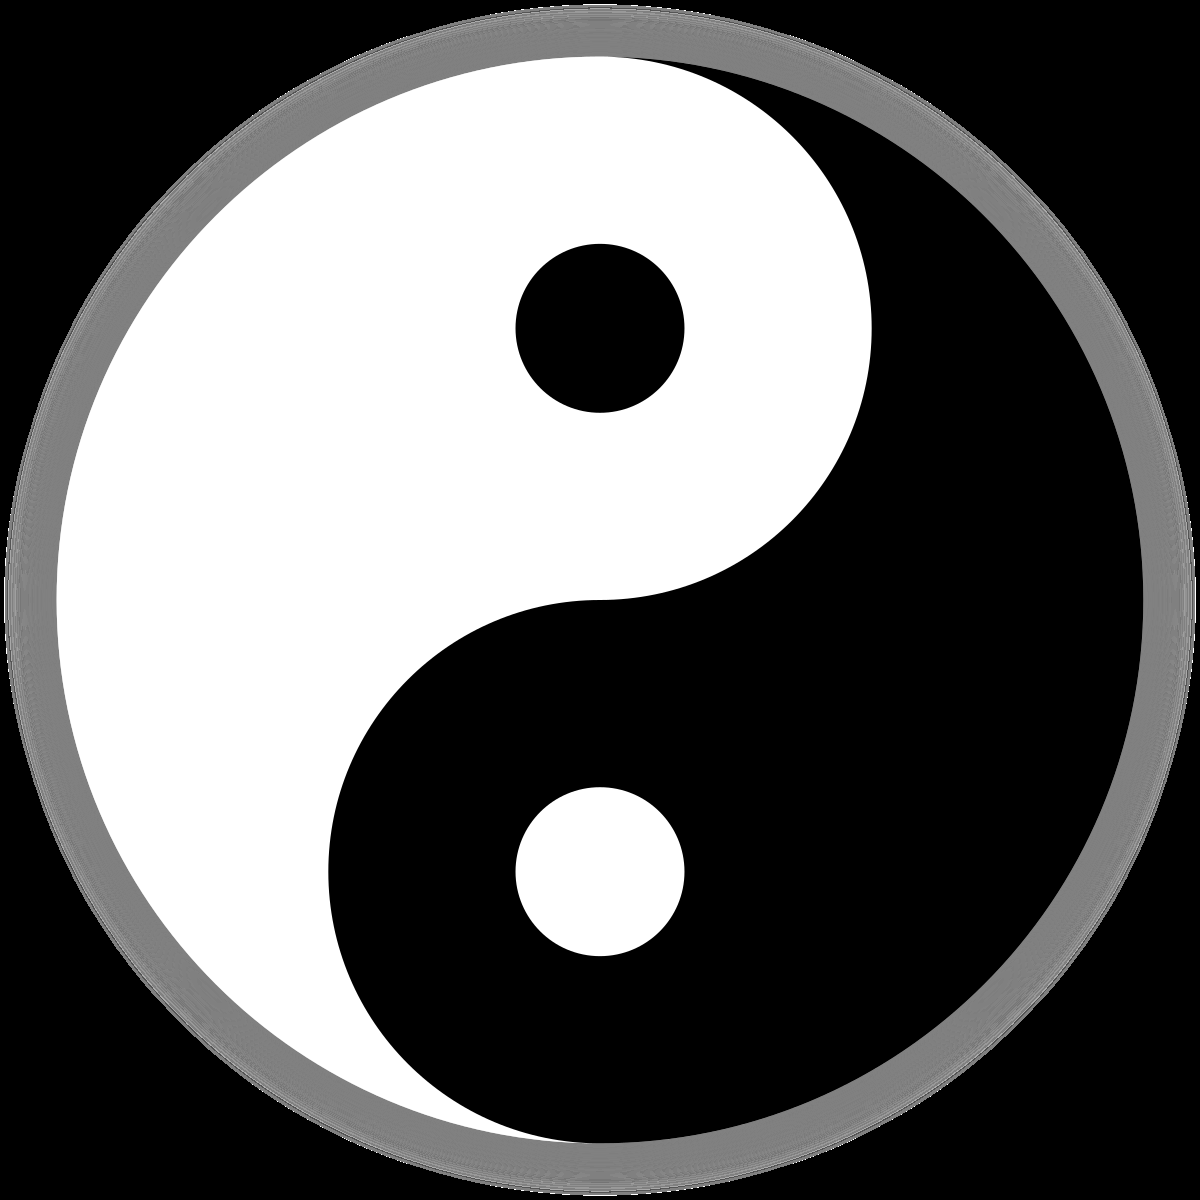
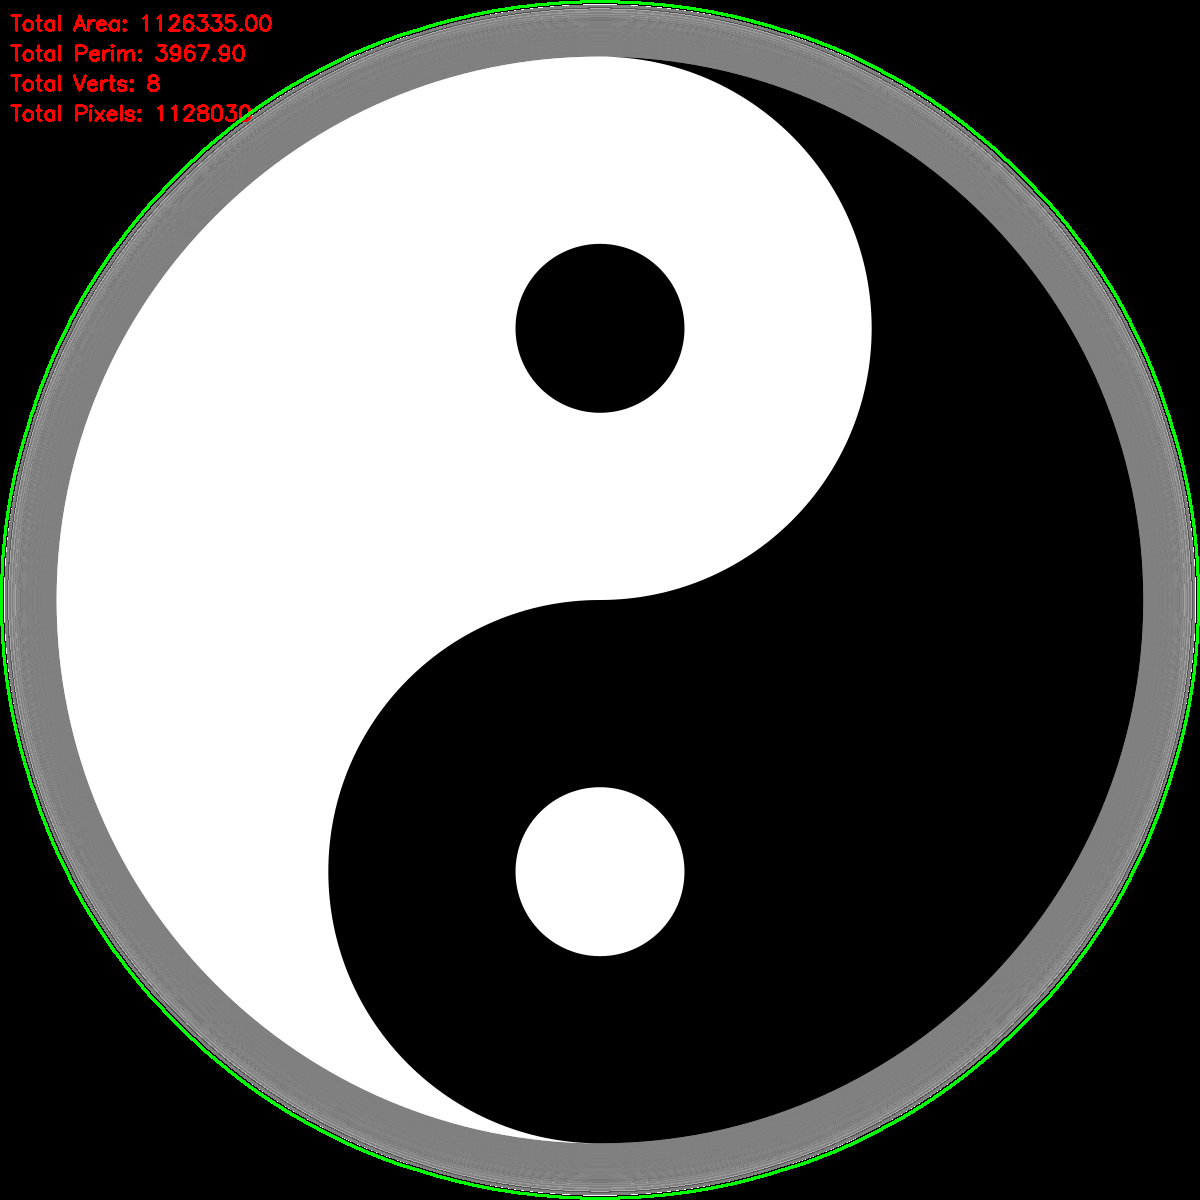
new image labels need to create kNN

diff --git a/contour_detection.py b/contour_detection.py
@@ -7,29 +7,24 @@ def load_and_convert_image(image_path):
     image = cv2.imread(image_path)
     gray_image = cv2.cvtColor(image, cv2.COLOR_BGR2GRAY)
     return image, gray_image
-
 # Function to apply Sobel edge detection
 def sobel_edge_detection(gray_image):
     sobel_x = cv2.Sobel(gray_image, cv2.CV_64F, 1, 0, ksize=3)
     sobel_y = cv2.Sobel(gray_image, cv2.CV_64F, 0, 1, ksize=3)
     return cv2.magnitude(sobel_x, sobel_y)
-
 # Function to apply Canny edge detection
 def canny_edge_detection(gray_image, low_threshold=100, high_threshold=200):
     return cv2.Canny(gray_image, low_threshold, high_threshold)
-
 # Function to apply Laplacian of Gaussian (LoG) edge detection
 def log_edge_detection(gray_image):
     blurred_image = cv2.GaussianBlur(gray_image, (5, 5), 0)
     return cv2.Laplacian(blurred_image, cv2.CV_64F)
-
 # Function to find contours from an edge-detected image
 def find_contours(edge_image):
     # Convert the edge image to an 8-bit format if it's not already
     edge_image = cv2.convertScaleAbs(edge_image)  # Convert to 8-bit
     contours, _ = cv2.findContours(edge_image, cv2.RETR_EXTERNAL, cv2.CHAIN_APPROX_SIMPLE)
     return contours
-
 def auto_label_shape(contour):
     # Approximate the contour to a polygon (with more vertices, the better)
     perimeter = cv2.arcLength(contour, True)
@@ -52,7 +47,6 @@ def auto_label_shape(contour):
         return 'Polygon'  # or other categories based on vertices count
     else:
         return 'Unknown'
-
 # Inside your contour processing loop, replace the manual labeling with the auto_label_shape function:
 def calculate_shape_features(image, contours):
     features = []
@@ -69,34 +63,42 @@ def calculate_shape_features(image, contours):
         cv2.drawContours(mask, [contour], -1, 255, thickness=cv2.FILLED)
         pixel_count = cv2.countNonZero(mask)
         
-        # Extract features
-        features.append([area, perimeter, vertices, pixel_count])
+        # Create a dictionary for features
+        feature_dict = {
+            "area": area,
+            "perimeter": perimeter,
+            "vertices": vertices,
+            "pixel_count": pixel_count
+        }
         
+        features.append(feature_dict)
+        print(feature_dict)
         # Auto label the shape
         labels.append(auto_label_shape(contour))  # Use the automated labeling function
 
     return features, labels
-
 # Function to draw contours and display calculated features
 def draw_and_display_features(image, contours, features):
     image_with_contours = image.copy()
     
-    for contour, feature in zip(contours, features):
-        # Extract feature values
-        area, perimeter, vertices, pixel_count = feature
-        
-        # Display feature values on the image
-        cv2.putText(image_with_contours, f"Area: {area:.2f}", (contour[0][0][0], contour[0][0][1]),
-                    cv2.FONT_HERSHEY_SIMPLEX, 0.5, (0, 0, 255), 1)
-        cv2.putText(image_with_contours, f"Perim: {perimeter:.2f}", (contour[0][0][0], contour[0][0][1] + 20),
-                    cv2.FONT_HERSHEY_SIMPLEX, 0.5, (0, 0, 255), 1)
-        cv2.putText(image_with_contours, f"Verts: {vertices}", (contour[0][0][0], contour[0][0][1] + 40),
-                    cv2.FONT_HERSHEY_SIMPLEX, 0.5, (0, 0, 255), 1)
-        cv2.putText(image_with_contours, f"Pixels: {pixel_count}", (contour[0][0][0], contour[0][0][1] + 60),
-                    cv2.FONT_HERSHEY_SIMPLEX, 0.5, (0, 0, 255), 1)
-        
-        # Draw the contours
-        cv2.drawContours(image_with_contours, [contour], -1, (0, 255, 0), 2)
+    # Aggregate statistics
+    total_area = sum(feature["area"] for feature in features)
+    total_perimeter = sum(feature["perimeter"] for feature in features)
+    total_vertices = sum(feature["vertices"] for feature in features)
+    total_pixel_count = sum(feature["pixel_count"] for feature in features)
+    
+    # Display summary statistics on the image
+    cv2.putText(image_with_contours, f"Total Area: {total_area:.2f}", (10, 30),
+                cv2.FONT_HERSHEY_SIMPLEX, 0.7, (0, 0, 255), 2)
+    cv2.putText(image_with_contours, f"Total Perim: {total_perimeter:.2f}", (10, 60),
+                cv2.FONT_HERSHEY_SIMPLEX, 0.7, (0, 0, 255), 2)
+    cv2.putText(image_with_contours, f"Total Verts: {total_vertices}", (10, 90),
+                cv2.FONT_HERSHEY_SIMPLEX, 0.7, (0, 0, 255), 2)
+    cv2.putText(image_with_contours, f"Total Pixels: {total_pixel_count}", (10, 120),
+                cv2.FONT_HERSHEY_SIMPLEX, 0.7, (0, 0, 255), 2)
+    
+    # Optionally, draw the contours without repeating text for each
+    cv2.drawContours(image_with_contours, contours, -1, (0, 255, 0), 2)
     
     return image_with_contours
 
@@ -124,10 +126,10 @@ def main():
         log_contours = find_contours(log_edges)
         
         # Calculate features (area, perimeter, vertices count, pixel count) for each set of contours
-        sobel_features = calculate_shape_features(image, sobel_contours)
-        canny_features = calculate_shape_features(image, canny_contours)
-        log_features = calculate_shape_features(image, log_contours)
-        
+        sobel_features, _ = calculate_shape_features(image, sobel_contours)
+        canny_features, _ = calculate_shape_features(image, canny_contours)
+        log_features, _ = calculate_shape_features(image, log_contours)
+
         # Draw contours and display features
         sobel_image = draw_and_display_features(image, sobel_contours, sobel_features)
         canny_image = draw_and_display_features(image, canny_contours, canny_features)
